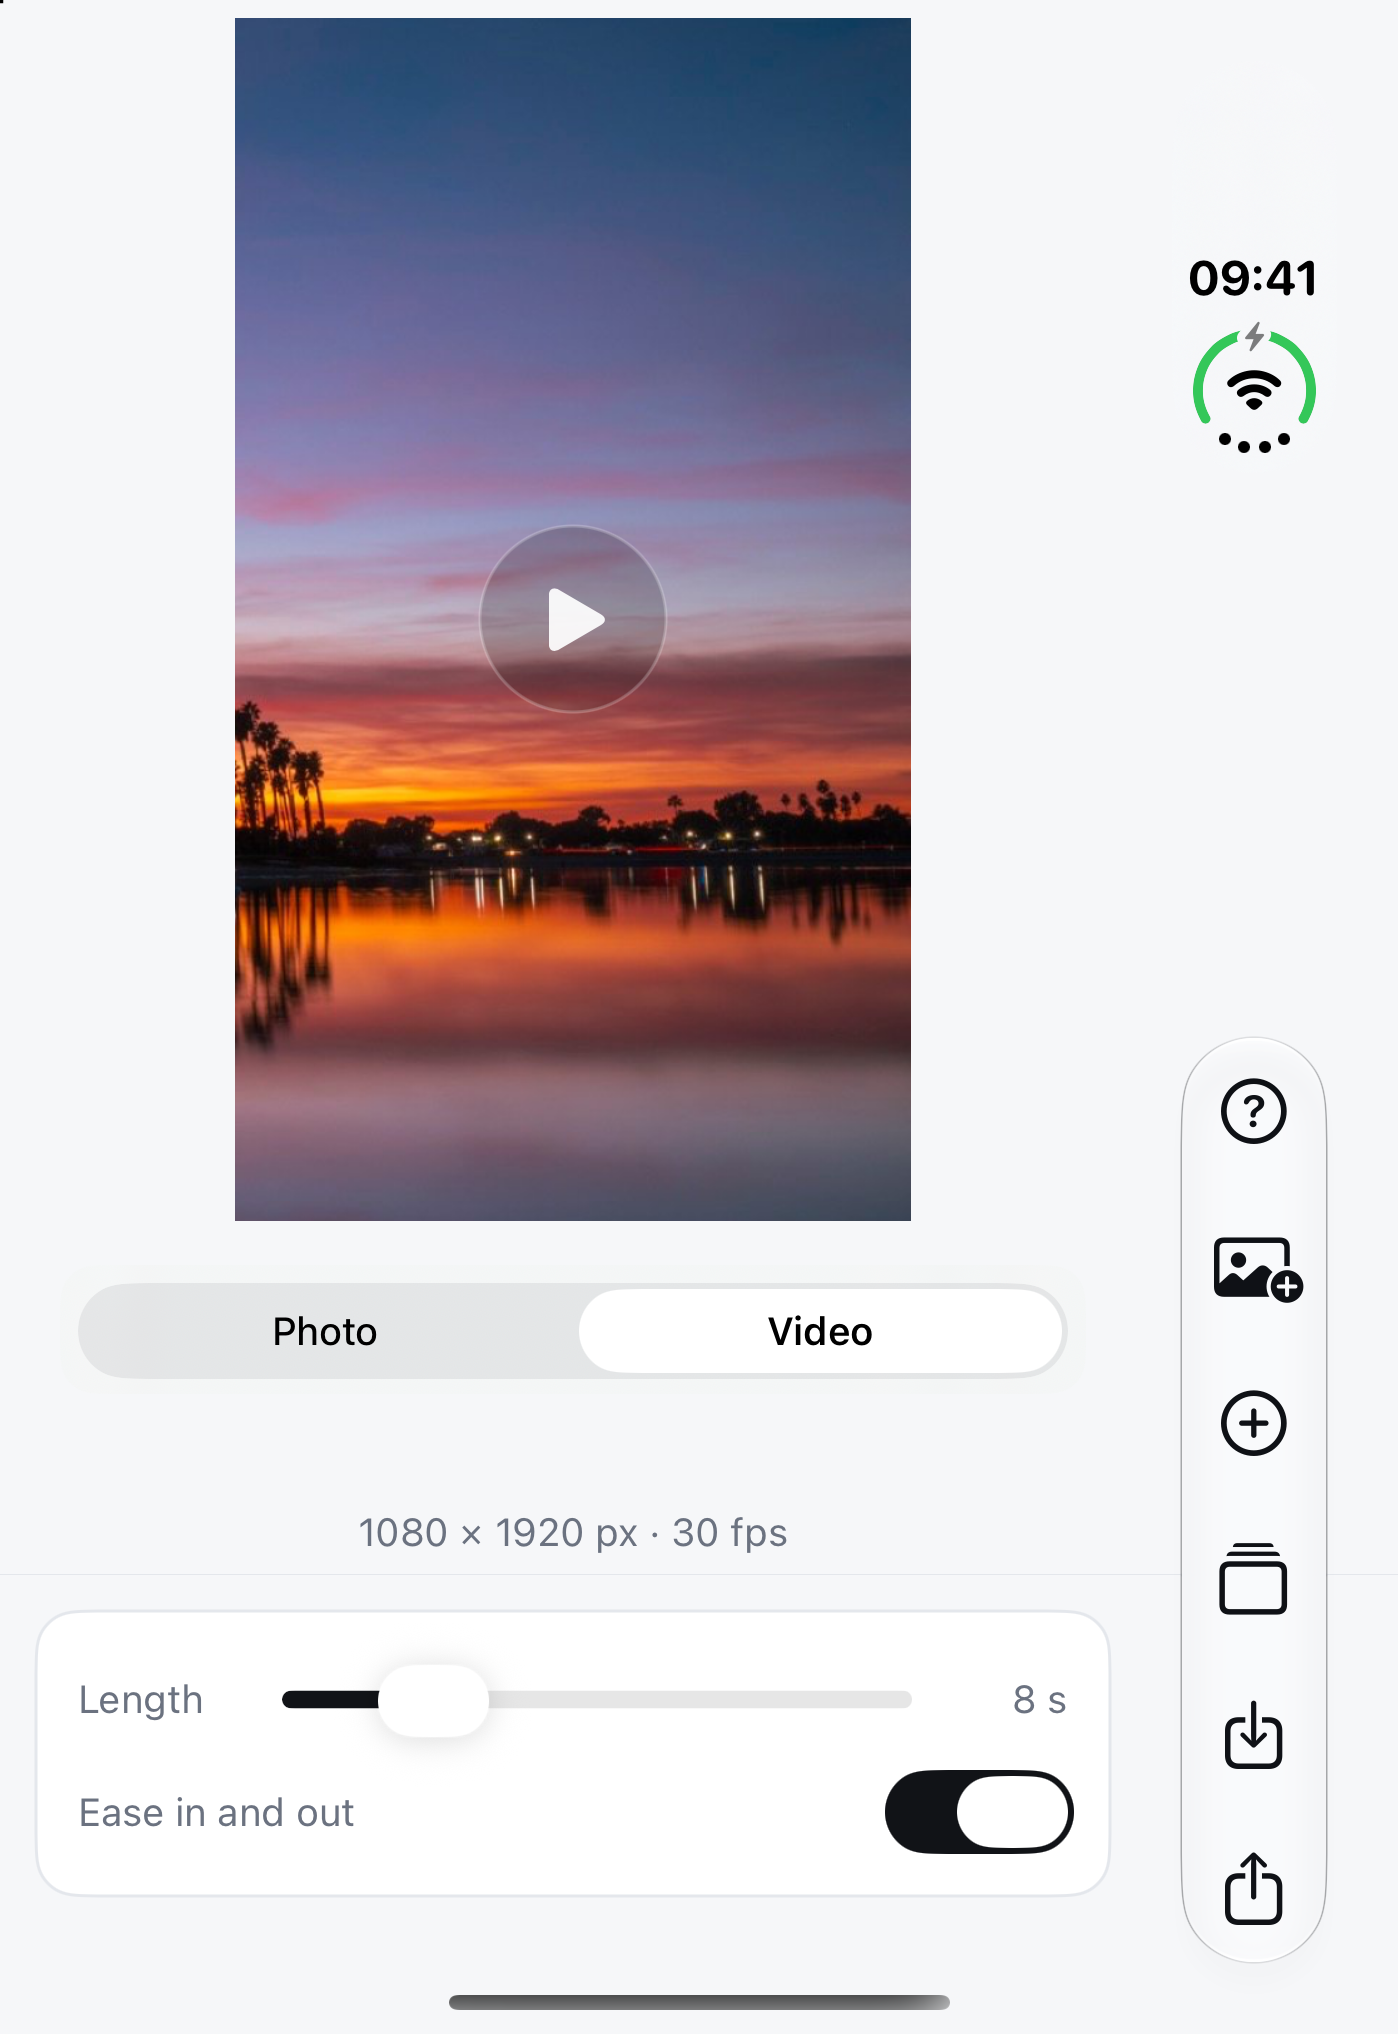
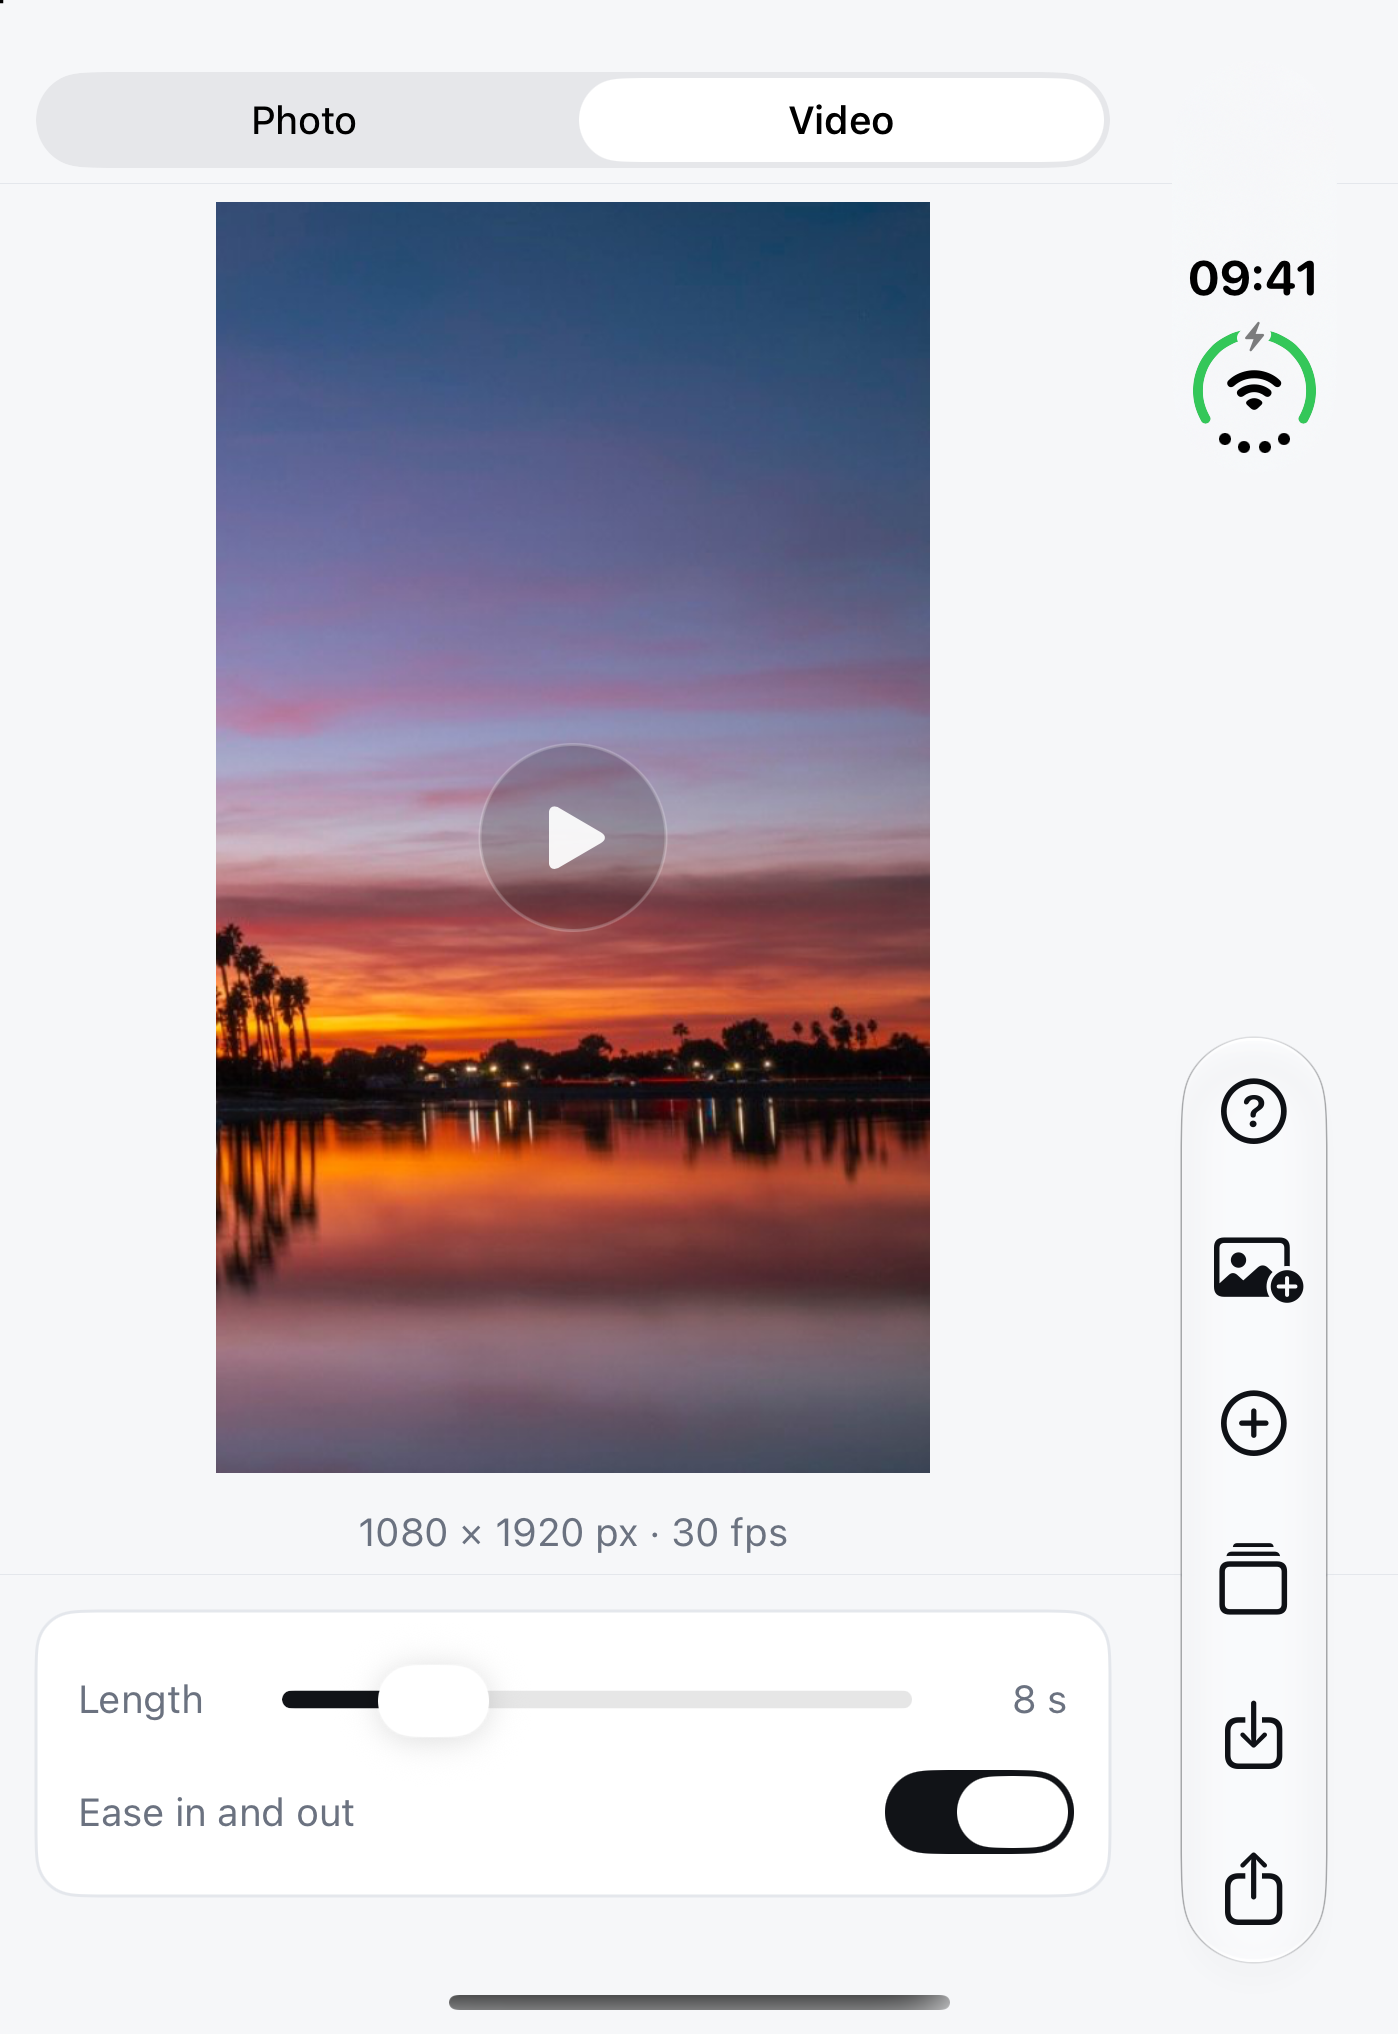
Duo: the Photo/Video switch sits on top, like every iPhone
The folded Duo's outer screen floated the switch at the bottom of the
canvas, which stranded the photo at the top. It now uses the same header
row as every other iPhone, with extra top space when no status bar sits
above it. Duo store screenshots retaken; the screenshot notes say Duo
Help needs a longer wait.

diff --git a/Seamless/EditorView.swift b/Seamless/EditorView.swift
@@ -2,8 +2,8 @@ import SwiftUI
 import PhotosUI
 import UIKit
 
-/// The canvas above, the controls below. The app runs in portrait only, so this is
-/// the one layout (plus the folded Duo's outer display, where the mode switch floats).
+/// The Photo/Video switch on top, the canvas, then the controls. The app runs in
+/// portrait only, so this is the one layout, on every iPhone and the folded Duo.
 struct EditorView: View {
     @Bindable var model: EditorModel
     var batch: BatchModel?              // nil while adjusting one batch photo
@@ -19,11 +19,6 @@ struct EditorView: View {
     @State private var showResult = false
     @State private var note: String?
     @State private var noteTask: Task<Void, Never>?
-    @Environment(HingeState.self) private var hinge
-
-    /// The folded Duo runs on its outer display. The system puts the bars on the side
-    /// there, so the output switch floats over the canvas instead of taking a row.
-    private var onOuterDisplay: Bool { hinge.openness == .closed }
 
     private var modePicker: some View {
         Picker("Output", selection: $model.mode) {
@@ -78,7 +73,8 @@ struct EditorView: View {
             let header = VStack(spacing: 0) {
                 modePicker
                     .padding(.horizontal, 12)
-                    .padding(.top, 10)
+                    // No status bar above it (the folded Duo keeps it at the side): clear the rounded corner.
+                    .padding(.top, geo.safeAreaInsets.top < 20 ? 24 : 10)
                     .padding(.bottom, 6)
                 Divider().overlay(DS.stroke)
             }
@@ -94,32 +90,14 @@ struct EditorView: View {
             .scrollBounceBehavior(.basedOnSize)
             .onPreferenceChange(ControlsHeightKey.self) { controlsHeight = $0 }
 
-            if onOuterDisplay {
-                // Folded: the system puts its bars on the side, so the mode switch
-                // floats over the canvas and the photo keeps the full height.
-                VStack(spacing: 0) {
-                    ZStack(alignment: .bottom) {
-                        CanvasView(model: model, onExplain: onExplain, bottomInset: 84)
-                        modePicker
-                            .padding(6)
-                            .background(.regularMaterial, in: RoundedRectangle(cornerRadius: 12))
-                            .padding(.horizontal, 20)
-                            .padding(.bottom, 60)
-                    }
+            // Every iPhone, the folded Duo included: the Photo/Video switch on top.
+            VStack(spacing: 0) {
+                header
+                CanvasView(model: model, onExplain: onExplain)
                     .frame(maxHeight: .infinity)
-                    Divider().overlay(DS.stroke)
-                    controls
-                        .frame(height: min(max(controlsHeight, 0), geo.size.height * (compact ? 0.45 : 0.55)))
-                }
-            } else {
-                VStack(spacing: 0) {
-                    header
-                    CanvasView(model: model, onExplain: onExplain)
-                        .frame(maxHeight: .infinity)
-                    Divider().overlay(DS.stroke)
-                    controls
-                        .frame(height: min(max(controlsHeight, 0), geo.size.height * (compact ? 0.45 : 0.55)))
-                }
+                Divider().overlay(DS.stroke)
+                controls
+                    .frame(height: min(max(controlsHeight, 0), geo.size.height * (compact ? 0.45 : 0.55)))
             }
         }
         .background(DS.bg)

diff --git a/appstore/AppStore-submission.md b/appstore/AppStore-submission.md
@@ -252,7 +252,7 @@ OUTER=$(xcrun simctl io "$DUO" enumerate | awk '/Default width: 1398/{print prev
 #   xcrun simctl io "$DUO" screenshot --display="$OUTER" appstore/screenshots-duo/<name>.png
 ```
 
-注意：模拟器上 App 真正画出来要 10–15 秒，`sleep 5` 会截到白屏；拍照前也可以把 `Seamless/demo.jpg` 换成自己的照片（宽图最佳）。
+注意：模拟器上 App 真正画出来要 10–15 秒，`sleep 5` 会截到白屏；Duo 外屏上的 Help（`-demoBasics`）要等 20 秒以上；拍照前也可以把 `Seamless/demo.jpg` 换成自己的照片（宽图最佳）。
 
 ## 5. 提交审核 checklist
 
